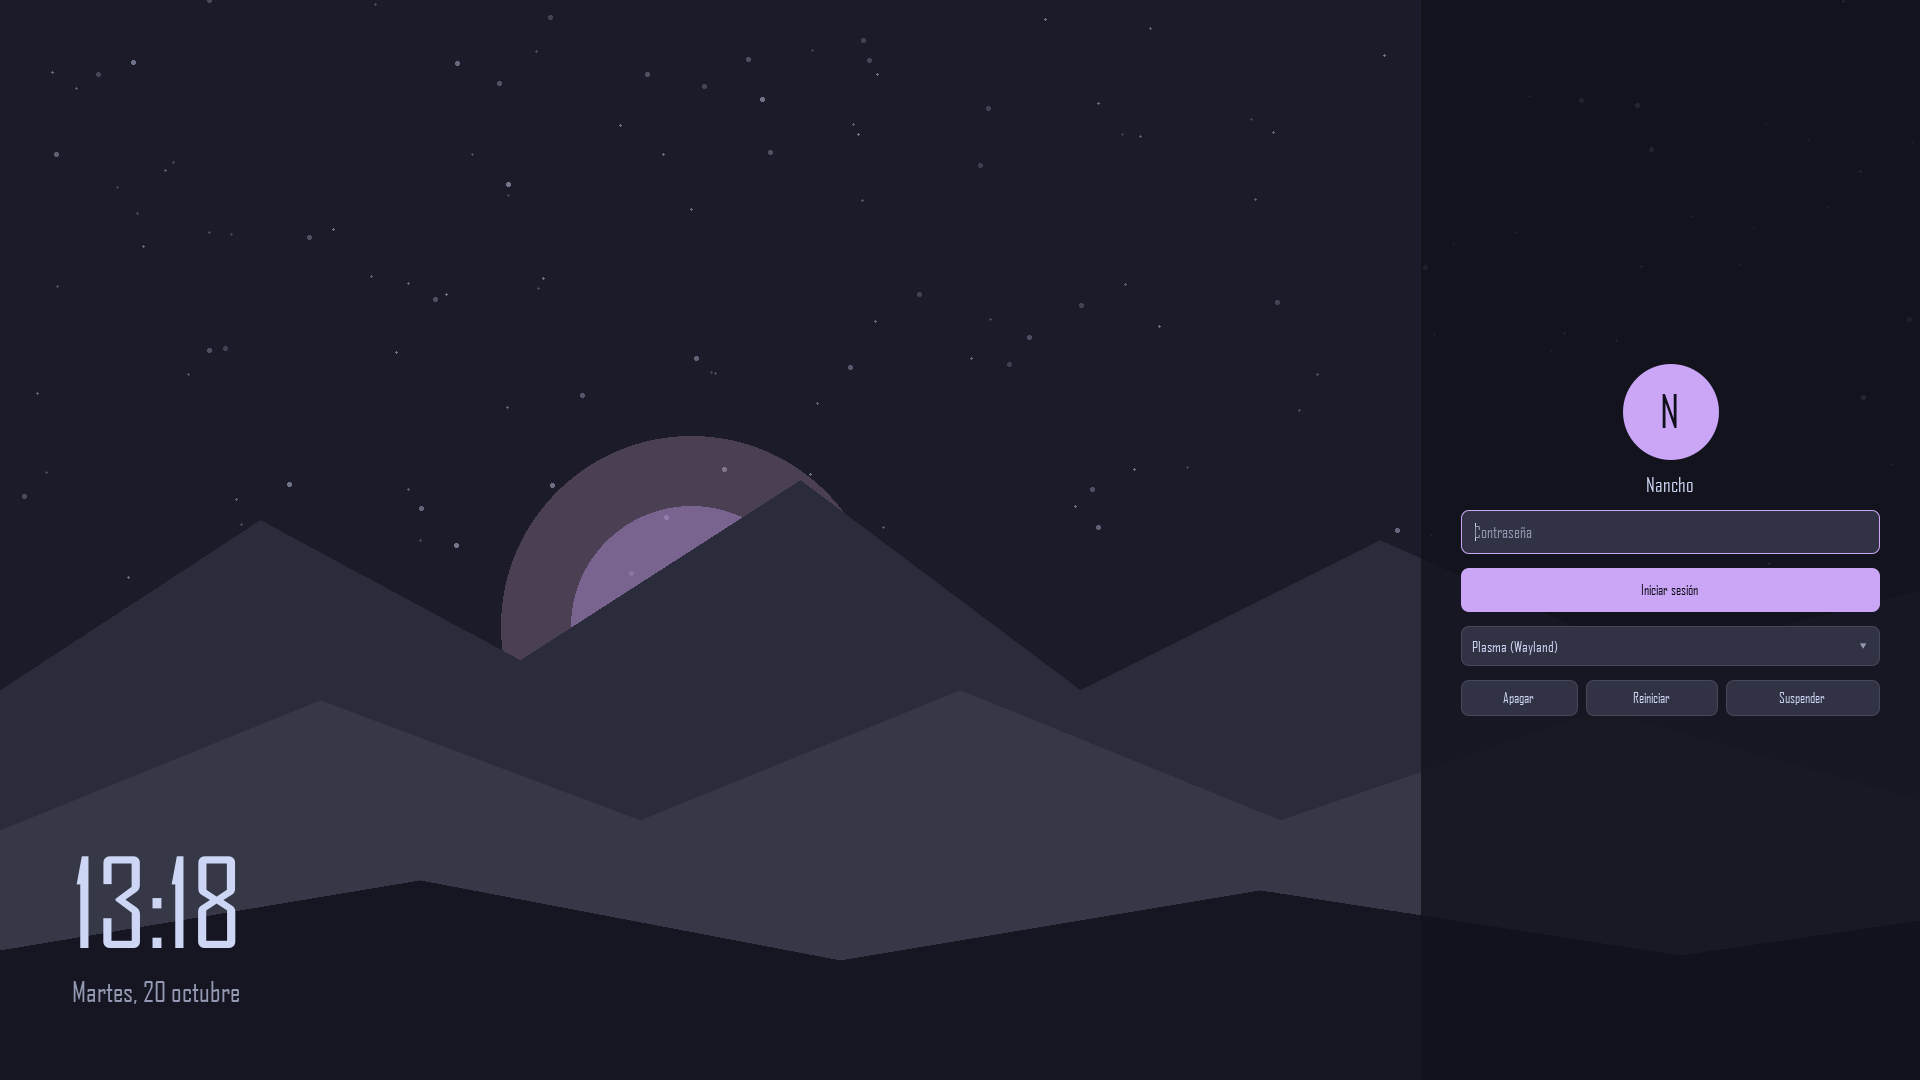
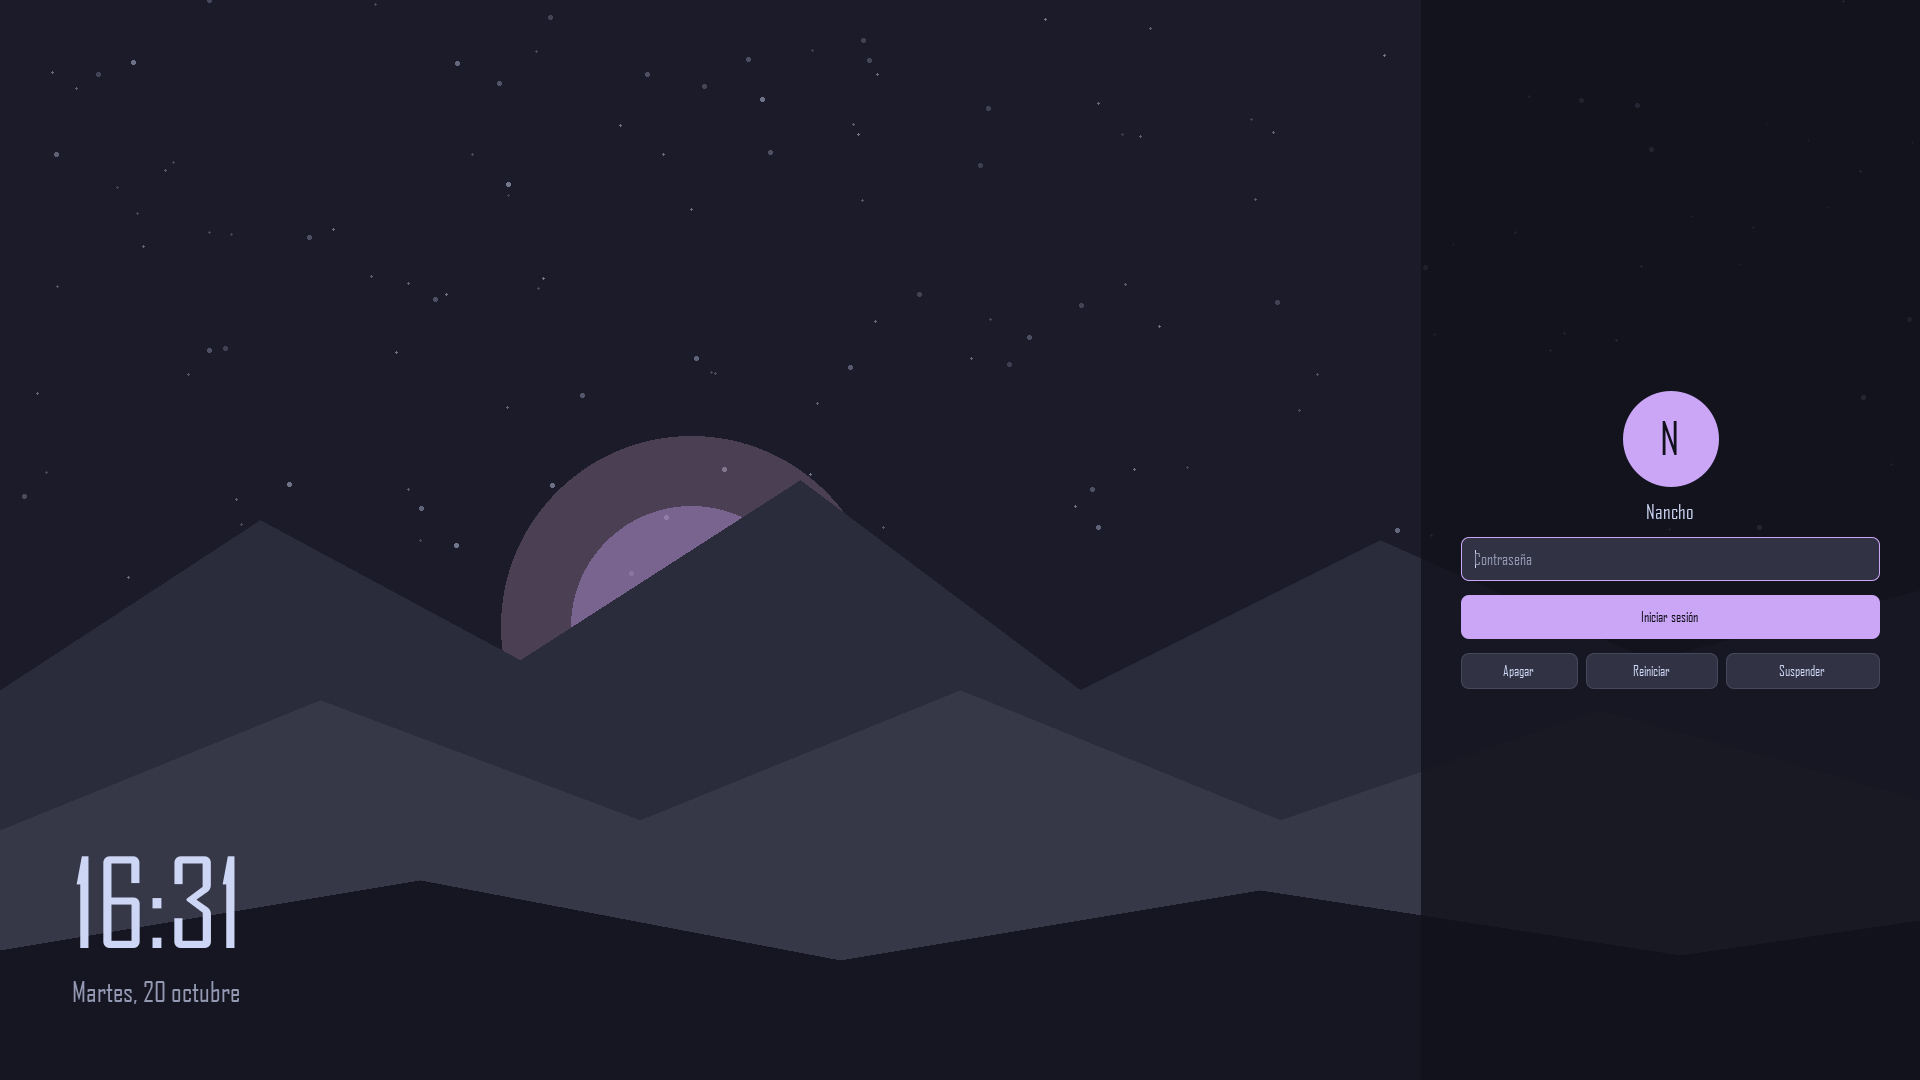
Selector de sesion oculto si solo hay una sesion
- showSessionSelector=auto por defecto: solo aparece con varias sesiones y, entonces, discreto al final del panel
- Caso de prueba nuevo con dos sesiones (7 casos)

Changed region(s): [[0.75, 0.3361, 1.0, 0.6722], [0.0312, 0.7944, 0.125, 0.8861]]

diff --git a/nocturne-login/Main.qml b/nocturne-login/Main.qml
@@ -39,7 +39,9 @@ Rectangle {
     readonly property string clockFormat: String(cfg("clockFormat", "HH:mm"))
     readonly property string dateFormat: String(cfg("dateFormat", "dddd, d MMMM"))
     readonly property bool showClock: cfgBool("showClock", true)
-    readonly property bool showSessionSelector: cfgBool("showSessionSelector", true)
+    readonly property string sessionSelectorMode: String(cfg("showSessionSelector", "auto")).toLowerCase()
+    readonly property bool showSessionSelector: sessionSelectorMode === "true"
+                                                || (sessionSelectorMode !== "false" && sessionModel.count > 1)
     readonly property bool showPower: cfgBool("showPowerButtons", true)
     readonly property bool showHibernate: cfgBool("showHibernate", false)
     readonly property string userSelector: String(cfg("showUserSelector", "auto")).toLowerCase()
@@ -236,21 +238,6 @@ Rectangle {
                 onClicked: root.tryLogin()
             }
 
-            ThemedCombo {
-                id: sessionBox
-                Layout.fillWidth: true
-                scaleUnit: root.u
-                fieldColor: root.fieldColor
-                borderColor: root.borderColor
-                accentColor: root.accentColor
-                textColor: root.textColor
-                mutedColor: root.mutedColor
-                visible: root.showSessionSelector
-                model: sessionModel
-                textRole: "name"
-                currentIndex: sessionModel.lastIndex
-            }
-
             RowLayout {
                 Layout.fillWidth: true
                 visible: root.showPower
@@ -300,6 +287,27 @@ Rectangle {
                     visible: root.showHibernate && sddm.canHibernate
                     onClicked: sddm.hibernate()
                 }
+            }
+
+            // Selector de sesion: oculto si solo hay una; si hay varias, discreto al final del panel.
+            // Siempre existe (aunque no se vea) porque sddm.login necesita su indice.
+            ThemedCombo {
+                id: sessionBox
+                Layout.fillWidth: true
+                Layout.topMargin: 10 * root.u
+                Layout.preferredHeight: 30 * root.u
+                font.pixelSize: 12 * root.u
+                opacity: 0.75
+                scaleUnit: root.u
+                fieldColor: root.fieldColor
+                borderColor: root.borderColor
+                accentColor: root.accentColor
+                textColor: root.textColor
+                mutedColor: root.mutedColor
+                visible: root.showSessionSelector
+                model: sessionModel
+                textRole: "name"
+                currentIndex: sessionModel.lastIndex
             }
         }
     }

diff --git a/tools/render_preview.py b/tools/render_preview.py
@@ -115,6 +115,7 @@ def main():
     ap.add_argument("--size", default="1920x1080")
     ap.add_argument("--config", default="{}", help="JSON con valores de theme.conf")
     ap.add_argument("--users", default='[["nancho","Nancho"]]', help="JSON: lista de [usuario, nombre real]")
+    ap.add_argument("--sessions", default='[["Plasma (Wayland)"]]', help="JSON: lista de sesiones, p. ej. [[\"Plasma (Wayland)\"],[\"Plasma (X11)\"]]")
     ap.add_argument("--fail", action="store_true", help="simula login fallido antes de capturar")
     ap.add_argument("--allow-missing-image", action="store_true",
                     help="no tratar como error que falte la imagen de fondo (caso de prueba)")
@@ -127,7 +128,7 @@ def main():
     view.setResizeMode(QQuickView.SizeRootObjectToView)
     ctx = view.rootContext()
     users = UserModel(json.loads(args.users))
-    sessions = UserModel([["Plasma (Wayland)"], ["Plasma (X11)"]])
+    sessions = UserModel(json.loads(args.sessions))
     sddm = FakeSddm()
     ctx.setContextProperty("config", json.loads(args.config))
     ctx.setContextProperty("userModel", users)

diff --git a/tools/run_tests.py b/tools/run_tests.py
@@ -14,7 +14,8 @@ SCRIPT = os.path.join(ROOT, "tools", "render_preview.py")
 
 CASES = [
     ("defecto-1080p", ["--out", os.path.join(ROOT, "preview.png")]),
-    ("izquierda-1440p-dos-usuarios", ["--size", "2560x1440",
+    ("dos-sesiones-selector-discreto", ["--sessions", '[["Plasma (Wayland)"],["Plasma (X11)"]]']),
+    ("izquierda-1440p-dos-usuarios", ["--size", "2560x1440", "--sessions", '[["Plasma (Wayland)"],["Plasma (X11)"]]',
         "--config", '{"panelSide":"left","showHibernate":"true","accentColor":"#89b4fa","dimBackground":"0.5"}',
         "--users", '[["nancho","Nancho Perez"],["invitado",""]]']),
     ("pantalla-pequena-768p", ["--size", "1366x768"]),

diff --git a/README.md b/README.md
@@ -75,7 +75,7 @@ dimBackground=0.4
 | `clockFormat` | `HH:mm` | Formato de hora de Qt (por ejemplo `hh:mm AP`). |
 | `dateFormat` | `dddd, d MMMM` | Formato de fecha de Qt. |
 | `showUserSelector` | `auto` | `auto` (solo si hay varios usuarios), `true` o `false`. |
-| `showSessionSelector` | `true` | Selector de sesion (Plasma Wayland/X11...). |
+| `showSessionSelector` | `auto` | Selector de sesion (Plasma Wayland/X11...): `auto` (solo si hay varias sesiones; discreto al final del panel), `true` o `false`. |
 | `showPowerButtons` | `true` | Botones de apagar, reiniciar y suspender. |
 | `showHibernate` | `false` | Anade el boton de hibernar si el sistema lo permite. |
 | `baseColor` `panelColor` `fieldColor` `borderColor` | Catppuccin Mocha | Colores. `panelColor` usa `#AARRGGBB` (los dos primeros digitos son la opacidad). |
@@ -86,8 +86,8 @@ Todo se escala segun la altura de pantalla (referencia: 1080 px), asi que funcio
 
 ## Estado
 
-- Probado con 6 casos automaticos que cargan el QML con datos de prueba (1080p, 1440p con dos usuarios y panel a
-  la izquierda, 768p, configuracion invalida, login fallido, sin botones): sin errores ni avisos de QML.
+- Probado con 7 casos automaticos que cargan el QML con datos de prueba (1080p, una y dos sesiones, 1440p con dos
+  usuarios y panel a la izquierda, 768p, configuracion invalida, login fallido, sin botones): sin errores ni avisos de QML.
 - **Todavia no se ha probado dentro de SDDM real.** Si encuentras errores, abre una issue con la salida del modo de prueba.
 - Pendiente: avatar del usuario, teclado virtual y traducciones.
 
